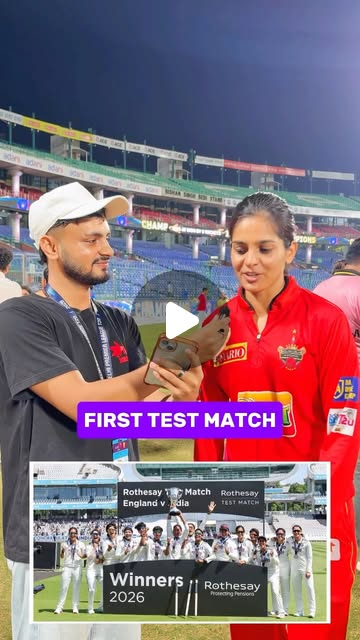
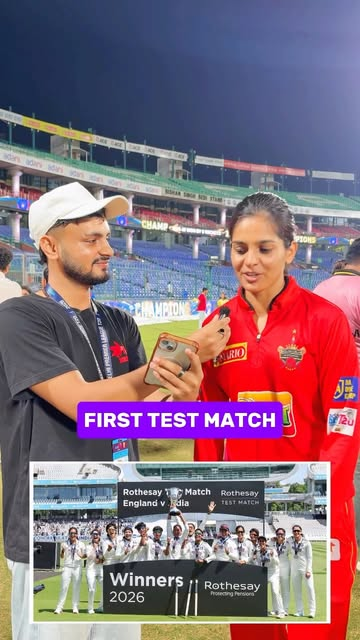
feat(scraper): source Instagram reels by real view count from the /reels/ tab
Neither the profile grid nor an individual reel's own page exposes any
view/play count when logged out -- checked live, only like_count and
comment_count exist there, so the previous fix could only rank by likes.
The dedicated /reels/ tab is different: its server-embedded GraphQL
connection (polaris_clips_connection) carries an exact play_count,
like_count, shortcode and thumbnail URL for every reel already, in one
page load, no per-reel fetch needed to rank them. Confirmed live: this
surfaced an 11.2M-view reel that isn't even among the profile grid's 12
most recent items -- the two are genuinely different pools.

Per request, the Pulse of the Crowd pool now sources only from
abhishekpandey_26's /reels/ tab (added IG_REELS_ACCOUNTS), not both
accounts -- and dedupes by shortcode since a reel cross-posted to both
accounts would otherwise show up as two identical cards.

Added a `views` field to the post schema/data (nullable, since the
override-file path and non-reel posts still only have likes) and wired
Stands.astro to sort and display by it, mirroring how Pitch.astro
already surfaces YouTube view counts.

Changed region(s): [[0.3361, 0.4062, 0.6417, 0.5938]]

diff --git a/src/lib/social-schema.test.js b/src/lib/social-schema.test.js
@@ -6,7 +6,7 @@ const sample = {
   scrapedAt: '2026-09-12T10:00:00+00:00',
   profiles: [{ platform: 'youtube', handle: 'spinandswing26', url: 'https://www.youtube.com/@spinandswing26', followers: 12300, postCount: null, name: null, headline: null }],
   videos: [{ platform: 'youtube', channel: 'spinandswing26', id: 'DfECjUL9ZvU', title: 'Nets', views: 147443, publishedAt: '2026-09-10T20:00:18+00:00', thumb: 'yt-DfECjUL9ZvU.jpg', featured: true }],
-  posts: [{ platform: 'instagram', account: 'spinandswing26', shortcode: 'DdHNbqDJusb', url: 'https://www.instagram.com/p/DdHNbqDJusb/', caption: 'hi', likes: null, isReel: false, thumb: 'ig-DdHNbqDJusb.jpg', featured: false }],
+  posts: [{ platform: 'instagram', account: 'spinandswing26', shortcode: 'DdHNbqDJusb', url: 'https://www.instagram.com/p/DdHNbqDJusb/', caption: 'hi', likes: null, views: null, isReel: false, thumb: 'ig-DdHNbqDJusb.jpg', featured: false }],
 };
 
 test('accepts a valid scrape', () => {

diff --git a/src/lib/social-schema.js b/src/lib/social-schema.js
@@ -36,6 +36,7 @@ export const SocialSchema = z.object({
       url: z.url(),
       caption: z.string(),
       likes: count,
+      views: count,
       isReel: z.boolean(),
       thumb: z.string().regex(/^ig-[\w-]{8,}\.jpg$/),
       featured: z.boolean(),

diff --git a/scraper/scrape.py b/scraper/scrape.py
@@ -18,12 +18,13 @@ OUT_JSON = ROOT / "src/data/social.json"
 THUMBS = ROOT / "src/assets/social"
 OVERRIDE = ROOT / "scraper/instagram_posts.txt"
 IG_ACCOUNTS = ["abhishekpandey_26", "spinandswing26"]
+IG_REELS_ACCOUNTS = ["abhishekpandey_26"]  # Pulse of the Crowd: reels from this account only
 YT_CHANNELS = ["spinandswing26", "abhishekunseen26"]
 LINKEDIN = "abhishek-pandey-26sep03"
 
 
 def get(url, **kw):
-    time.sleep(2)  # ponytail: fixed politeness delay; ~70 requests total, no need for a rate limiter
+    time.sleep(2)  # ponytail: fixed politeness delay; ~50 requests total, no need for a rate limiter
     page = Fetcher.get(url, impersonate="chrome", stealthy_headers=True, timeout=30, **kw)
     if page.status != 200:
         raise RuntimeError(f"HTTP {page.status} for {url}")
@@ -53,18 +54,18 @@ def profile_row(platform, handle, url):
             "followers": None, "postCount": None, "name": None, "headline": None}
 
 
-def scrape_instagram(featured, pool_size=5):
-    """Ranks by likes, not upload recency.
+def scrape_instagram(featured, pool_size=6):
+    """Ranks by real view count from IG_REELS_ACCOUNTS's own /reels/ tab, not upload recency.
 
-    Instagram exposes no view/play count on a logged-out reel or post page -- checked
-    live, only like_count and comment_count are present -- so likes is the only real
-    engagement signal available without login. The profile grid's static HTML caps at
-    12 items -- verified live on both accounts -- but parse_instagram_shortcodes used
-    to only look at the first 5 of those (recency order), so a more-liked reel sitting
-    at position 6-12 was structurally invisible. Now every available candidate gets
-    fetched and each account's own results are ranked by likes before slicing.
+    Neither the profile grid nor an individual reel's own page exposes any view/play
+    count when logged out -- checked live, only like_count and comment_count exist
+    there. The dedicated /reels/ tab is different: its server-embedded GraphQL
+    connection carries an exact play_count, like_count, shortcode and thumbnail URL for
+    every reel already, no per-reel fetch needed to rank them. Confirmed live:
+    abhishekpandey_26's /reels/ tab surfaces reels the profile grid's 12 most recent
+    items never show at all -- the two are genuinely different pools.
     """
-    def fetch_post(c):
+    def fetch_override_post(c):
         kind = "reel" if c["isReel"] else "p"
         url = f"https://www.instagram.com/{kind}/{c['shortcode']}/"
         page = get(url)
@@ -75,41 +76,51 @@ def scrape_instagram(featured, pool_size=5):
         thumb = save_image(image, f"ig-{c['shortcode']}.jpg")
         return {"platform": "instagram", "account": info["account"] or "unknown",
                 "shortcode": c["shortcode"], "url": url, "caption": info["caption"],
-                "likes": info["likes"], "isReel": c["isReel"], "thumb": thumb,
+                "likes": info["likes"], "views": None, "isReel": c["isReel"], "thumb": thumb,
                 "featured": c["shortcode"] in featured}
 
-    profiles, per_account = [], []
+    profiles = []
     for handle in IG_ACCOUNTS:
-        url = f"https://www.instagram.com/{handle}/"
-        row = profile_row("instagram", handle, url)
-        shortcodes = []
+        row = profile_row("instagram", handle, f"https://www.instagram.com/{handle}/")
         try:
-            page = get(url)
-            row.update(parse.parse_instagram_profile(meta(page, "og:description")))
-            shortcodes = parse.parse_instagram_shortcodes(page.body.decode("utf-8", "ignore"), limit=12)
+            row.update(parse.parse_instagram_profile(meta(get(row["url"]), "og:description")))
         except Exception as err:
             print("WARN IG profile", err)
         profiles.append(row)
-        per_account.append(shortcodes)
 
     posts = []
     if OVERRIDE.exists():
         urls = [line.strip() for line in OVERRIDE.read_text().splitlines() if line.strip()]
         for c in filter(None, map(parse.parse_instagram_post_url, urls)):
             try:
-                posts.append(fetch_post(c))
+                posts.append(fetch_override_post(c))
             except Exception as err:
                 print("WARN IG post", err)
-    else:
-        for shortcodes in per_account:
-            fetched = []
-            for c in shortcodes:
-                try:
-                    fetched.append(fetch_post(c))
-                except Exception as err:
-                    print("WARN IG post", err)
-            fetched.sort(key=lambda p: p["likes"] or 0, reverse=True)
-            posts += fetched[:pool_size]
+        return profiles, posts
+
+    for handle in IG_REELS_ACCOUNTS:
+        try:
+            reels_page = get(f"https://www.instagram.com/{handle}/reels/")
+            candidates = parse.parse_instagram_reels_tab(reels_page.body.decode("utf-8", "ignore"))
+        except Exception as err:
+            print("WARN IG reels tab", err)
+            candidates = []
+        candidates.sort(key=lambda c: c["views"], reverse=True)
+        for c in candidates[:pool_size]:
+            url = f"https://www.instagram.com/reel/{c['id']}/"
+            try:
+                caption = parse.parse_instagram_post(meta(get(url), "og:description"))["caption"]
+                thumb = save_image(c["thumbUrl"], f"ig-{c['id']}.jpg")
+            except Exception as err:
+                print("WARN IG reel", err)
+                continue
+            posts.append({"platform": "instagram", "account": handle, "shortcode": c["id"],
+                          "url": url, "caption": caption, "likes": c["likes"], "views": c["views"],
+                          "isReel": True, "thumb": thumb, "featured": c["id"] in featured})
+
+    # A reel cross-posted to both accounts shows up in both accounts' own /reels/ tab --
+    # keep it once rather than showing the same card twice.
+    posts = list({p["shortcode"]: p for p in posts}.values())
     return profiles, posts
 
 

diff --git a/scraper/parse.py b/scraper/parse.py
@@ -1,4 +1,5 @@
 """Pure parsers for public Instagram, YouTube and LinkedIn pages. No network here."""
+import json
 import re
 from html import unescape
 
@@ -11,6 +12,13 @@ _SHORTS_ITEM = re.compile(r'"entityId":"shorts-shelf-item-([\w-]{11})"[^}]*?"acc
 # response -- \D* (any non-digits) bridges either without caring which.
 _SHORTS_VIEWS = re.compile(r"^.*,\s*([\d.,]+)\s*(thousand|million|billion)?\s*views?\D*play Short$")
 _POST_URL = re.compile(r"instagram\.com/(p|reel)/([A-Za-z0-9_-]{8,})")
+_REEL_TAB_ITEM = re.compile(
+    r'"__typename":"XIGPolarisVideoMedia".*?'
+    r'"like_count":(\d+),"play_count":(\d+),.*?'
+    r'"code":"([\w-]+)".*?'
+    r'"display_uri":"(.*?)(?<!\\)"',
+    re.S,
+)
 # The trailing ": caption" is itself optional -- a post with no caption text leaves
 # og:description as just "<account> on <date>", with no colon at all.
 _POST_META = re.compile(
@@ -36,11 +44,25 @@ def parse_instagram_profile(og_description):
     return {"followers": parse_count(m.group(1)), "postCount": parse_count(m.group(2))}
 
 
-def parse_instagram_shortcodes(html, limit=5):
-    seen = {}
-    for kind, code in re.findall(r"/(p|reel)/([A-Za-z0-9_-]{8,})", html):
-        seen.setdefault(code, kind == "reel")
-    return [{"shortcode": c, "isReel": r} for c, r in list(seen.items())[:limit]]
+def parse_instagram_reels_tab(html):
+    """[{id, views, likes, thumbUrl}] from a profile's dedicated /reels/ tab.
+
+    Neither the profile grid nor an individual reel's own page exposes a view count
+    at all -- checked live, only like_count and comment_count exist there. This tab is
+    different: its server-embedded GraphQL connection (polaris_clips_connection) carries
+    an exact play_count, like_count, shortcode and thumbnail URL for every reel in one
+    page load, no per-reel fetch needed. Confirmed live: this surfaces an 11M-view reel
+    that isn't among the profile grid's 12 most recent items at all.
+    """
+    out = []
+    for likes, plays, code, thumb_uri in _REEL_TAB_ITEM.findall(html):
+        out.append({
+            "id": code,
+            "views": int(plays),
+            "likes": int(likes),
+            "thumbUrl": json.loads(f'"{thumb_uri}"'),
+        })
+    return out
 
 
 def parse_instagram_post_url(url):

diff --git a/scraper/test_parse.py b/scraper/test_parse.py
@@ -68,12 +68,28 @@ class Instagram(unittest.TestCase):
     def test_profile_login_wall_is_nulls(self):
         self.assertEqual(parse.parse_instagram_profile(None), {"followers": None, "postCount": None})
 
-    def test_shortcodes_dedupe_and_kind(self):
-        html = 'href="/p/DdHNbqDJusb/" x href="/reel/DdGyUtFsnRO/" y href="/p/DdHNbqDJusb/"'
-        self.assertEqual(
-            parse.parse_instagram_shortcodes(html),
-            [{"shortcode": "DdHNbqDJusb", "isReel": False}, {"shortcode": "DdGyUtFsnRO", "isReel": True}],
+    def test_reels_tab_extracts_views_likes_code_and_thumb(self):
+        # Trimmed to the fields the parser reads; a real page repeats several other
+        # keys per node (comment_count, clips_tab_pinned_user_ids, ...) in between.
+        html = (
+            '"__typename":"XIGPolarisVideoMedia","pk":"1","like_count":3,"play_count":11183407,'
+            '"clips_tab_pinned_user_ids":[],"code":"DW84LM4y4Fr","seo_canonical_url":null,'
+            '"display_uri":"https:\\/\\/scontent.cdninstagram.com\\/img.jpg?a=1\\u00253D2"}},'
+            '{"node":{"__typename":"XIGPolarisVideoMedia","pk":"2","like_count":8860,"play_count":119608,'
+            '"code":"Dcs1bhEoeTf","seo_canonical_url":null,"display_uri":"https:\\/\\/x.test\\/b.jpg"'
         )
+        self.assertEqual(
+            parse.parse_instagram_reels_tab(html),
+            [
+                {"id": "DW84LM4y4Fr", "views": 11_183_407, "likes": 3,
+                 "thumbUrl": "https://scontent.cdninstagram.com/img.jpg?a=1%3D2"},
+                {"id": "Dcs1bhEoeTf", "views": 119_608, "likes": 8860,
+                 "thumbUrl": "https://x.test/b.jpg"},
+            ],
+        )
+
+    def test_reels_tab_empty_when_no_items(self):
+        self.assertEqual(parse.parse_instagram_reels_tab("<html></html>"), [])
 
     def test_post_url(self):
         self.assertEqual(
